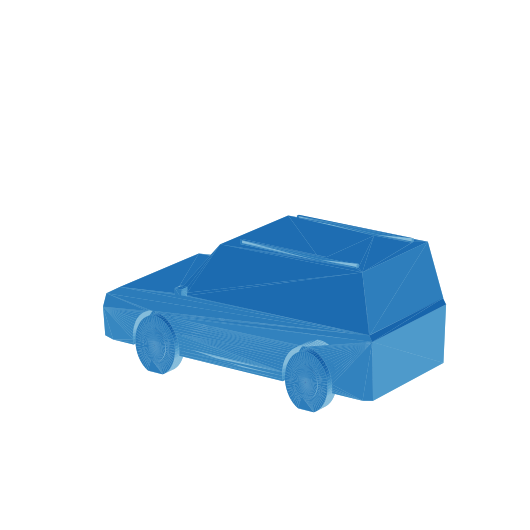
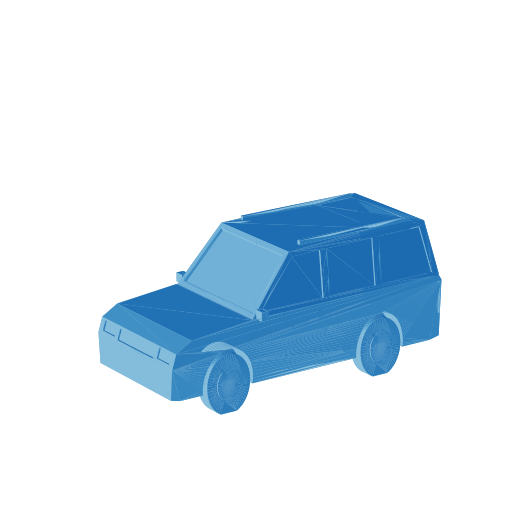
Give the Pilot model recessed windows, grille and lights
Claude-Session: https://claude.ai/code/session_01P5oASEiaPNRC7cT62rk81R

Changed region(s): [[0.1811, 0.3623, 0.8453, 0.7849]]

diff --git a/pilot/make_pilot.py b/pilot/make_pilot.py
@@ -29,6 +29,36 @@ def ycyl(r, length, x, y, z):
     c.apply_translation((x, y, z))
     return c
 
+# --- Surface details (shallow recesses) ---
+D = 30  # recess depth, real mm (~0.7 mm at 1:43)
+def pts_hull(pts): return trimesh.convex.convex_hull(np.array(pts, float))
+def gh_w(z): return 975 - 115*(z-1070)/710   # greenhouse side half-width at height z
+
+# Side windows: recess the greenhouse sides, leaving B/C/D pillars
+side_prof = [(1520,1140),(2130,1700),(4430,1725),(4610,1150)]
+sides = []
+for s in (-1,1):
+    pts = [(x, s*(gh_w(z)-D), z) for x,z in side_prof] + [(x, s*1300, z) for x,z in side_prof]
+    sides.append(pts_hull(pts))
+pillars = [box(bounds=((x0,-1400,1000),(x1,1400,1900))) for x0,x1 in ((2620,2740),(3560,3680))]
+side_cut = trimesh.boolean.difference([trimesh.boolean.union(sides, engine="manifold")]+pillars, engine="manifold")
+
+def face_cut(corners, inward):
+    inward = np.array(inward)/np.linalg.norm(inward)
+    c = np.array(corners, float)
+    return pts_hull(np.vstack([c + inward*D, c - inward*300]))
+ws   = face_cut([(x,y,z) for x,z,hw in ((1440,1120,890),(2040,1700,790)) for y in (-hw,hw)], (0.692,0,-0.722))
+rear = face_cut([(x,y,z) for x,z,hw in ((4705,1180,870),(4545,1720,790)) for y in (-hw,hw)], (-0.955,0,-0.295))
+
+def front_x(z): return 70*(z-700)/180
+def front_cut(y0, y1, z0, z1):
+    return pts_hull([(front_x(z)+D, y, z) for z in (z0,z1) for y in (y0,y1)] +
+                    [(-300, y, z) for z in (z0,z1) for y in (y0,y1)])
+grille = front_cut(-470, 470, 720, 850)
+lights = [front_cut(s*560, s*880, 740, 860) for s in (-1,1)]
+tails  = [box(bounds=((4775-D, min(s*760,s*950), 620), (4900, max(s*760,s*950), 1010))) for s in (-1,1)]
+details = [side_cut, ws, rear, grille] + lights + tails
+
 axles_x = (FX, FX + WB)
 # Wheel arch cutouts (only outer part of body)
 arches = [ycyl(430, 400, x, s*(HALF_W - 150), R_T) for x in axles_x for s in (-1,1)]
@@ -37,7 +67,7 @@ hubs   = [ycyl(200, 30, x, s*(HALF_W - 10), R_T) for x in axles_x for s in (-1,1
 axles  = [ycyl(120, 2*HALF_W - 100, x, 0, R_T) for x in axles_x]
 
 shell = trimesh.boolean.union([body, green] + rails + mirrors, engine="manifold")
-shell = trimesh.boolean.difference([shell] + arches, engine="manifold")
+shell = trimesh.boolean.difference([shell] + arches + details, engine="manifold")
 car = trimesh.boolean.union([shell] + wheels + hubs + axles, engine="manifold")
 # Flatten tire bottoms slightly so it sits flat on the bed
 car = trimesh.boolean.intersection([car, box(bounds=((-100,-1200,25),(5000,1200,3000)))], engine="manifold")
@@ -54,5 +84,5 @@ fig = plt.figure(figsize=(10,6)); ax = fig.add_subplot(projection="3d")
 n = car.face_normals; light = np.clip(n @ np.array([0.4,-0.6,0.7])/np.linalg.norm([0.4,-0.6,0.7]),0.15,1)
 ax.add_collection3d(Poly3DCollection(car.triangles, facecolors=plt.cm.Blues(0.35+0.6*light), edgecolor="none"))
 e = car.extents; ax.set_xlim(0,e[0]); ax.set_ylim(-(e[0]-e[1])/2, e[1]+(e[0]-e[1])/2); ax.set_zlim(0,e[0]*0.6)
-ax.view_init(elev=18, azim=-55); ax.set_axis_off()
+ax.view_init(elev=18, azim=-125); ax.set_axis_off()
 plt.savefig("pilot/preview.png", dpi=110, bbox_inches="tight")
